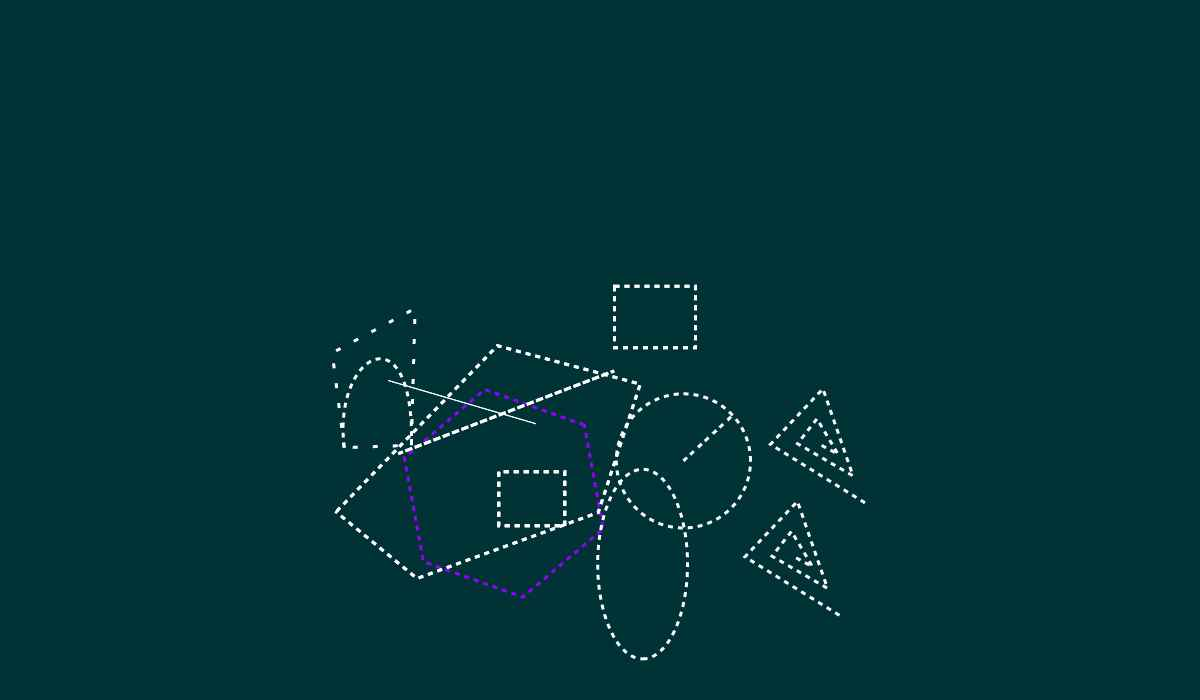
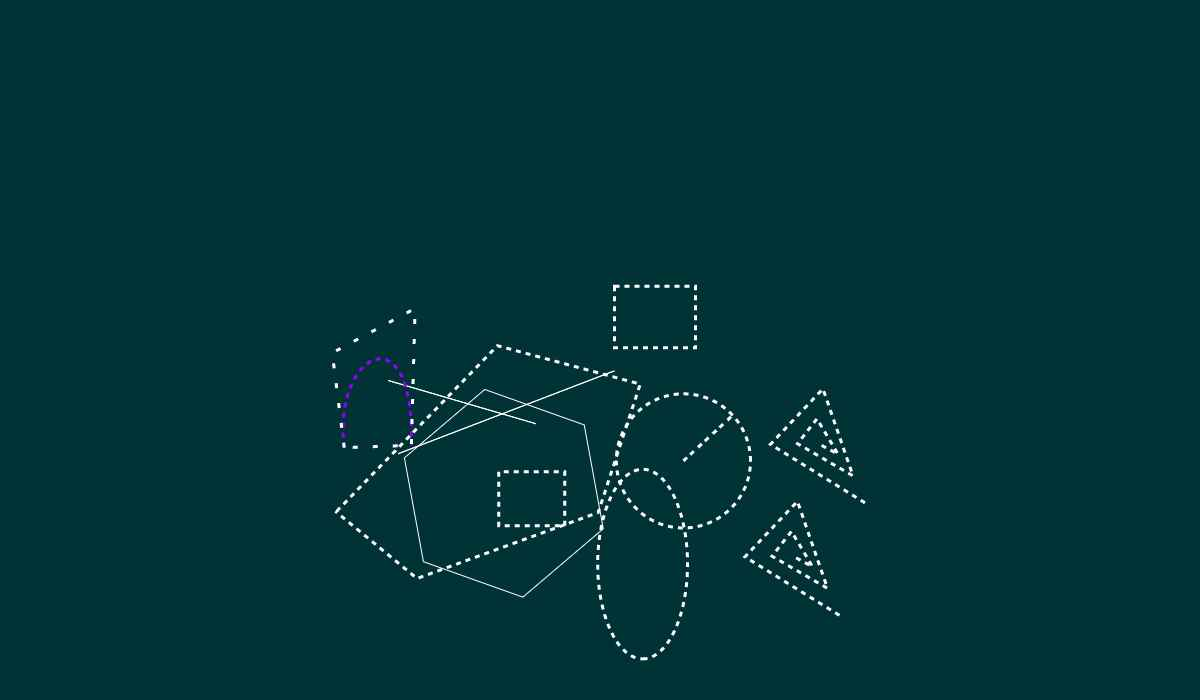
refresh token fix

diff --git a/front/src/main.ts b/front/src/main.ts
@@ -2,7 +2,7 @@ import { createApp } from "vue";
 import { Router } from "vue-router";
 import { Store } from "vuex";
 import App from './App.vue';
-import axios, { AxiosError, AxiosResponse } from "axios";
+import axios, { AxiosError, AxiosRequestConfig, AxiosResponse } from "axios";
 import moment from "moment";
 import FlashMessage, { FlashMessagePlugin } from "@smartweb/vue-flash-message";
 import mitt, { Emitter } from "mitt";
@@ -73,7 +73,7 @@ router.beforeEach(async (to, from, next) => {
 
 // so that axios doesn't eat my 4XX and 5XX errors
 axios.defaults.validateStatus = (status): boolean => {
-    return true;
+    return status === 401 ? false : true;
 }
 
 // uhh, maybe this works
@@ -81,13 +81,13 @@ axios.interceptors.response.use((res: AxiosResponse) => {
         return res;
     },
     async (err: AxiosError) => {
-
         const originalReq = err.config;
         const refreshToken = localStorage.getItem("refreshToken");
-        if (refreshToken !== "undefined" && err.response?.status === 401) {
-            const newToken = await axios.post("/token/refresh", { refreshToken });
-            originalReq.headers["Authorization"] = `Bearer ${newToken}`;
-            console.log("refreshed", newToken);
+        if (refreshToken !== "undefined" && err && err.response && err.response?.status === 401) {
+            const res = await axios.post("/token/refresh", { refreshToken });
+            const newToken = res.data.token;
+            store.commit("setToken", { token: newToken });
+            originalReq.headers["Authorization"] = newToken;
             return Axios.request(originalReq);
         }
 
@@ -95,6 +95,14 @@ axios.interceptors.response.use((res: AxiosResponse) => {
             router.push("/auth/login/");
             return Promise.reject(err);
         }
+    }
+);
+
+axios.interceptors.request.use((req: AxiosRequestConfig) => {
+        return req;
+    },
+    async (err: AxiosError) => {
+        console.error(err.config)
     }
 )
 

diff --git a/front/src/engine/engine.ts b/front/src/engine/engine.ts
@@ -809,13 +809,9 @@ export default class Engine {
             ctx.setTransform(1, 0, 0, -1, 0, this.canvas.height);
 
             ctx.save();
-            // this.currentLayer.forEach(shape => {
-            //     shape.renderSelf(ctx);
-            //     // shape.renderNodes(ctx);
-            // });
             this.layers.forEach(layer => {
                 layer.shapes.forEach(shape => {
-                    shape.renderSelf(ctx);
+                    shape.renderSelf(ctx, "white");
                 })
             })
             ctx.restore();

diff --git a/front/src/engine/shapes/bezier.ts b/front/src/engine/shapes/bezier.ts
@@ -84,7 +84,7 @@ export default class Bezier extends Shape {
 
             ctx.save();
                 // ctx.strokeStyle = this.color;
-                // ctx.beginPath();
+                ctx.beginPath();
                 ctx.moveTo(sv.x, sv.y);
                 ctx.bezierCurveTo(mv.x, mv.y, mv2.x, mv2.y, ev.x, ev.y);
                 // ctx.closePath();
